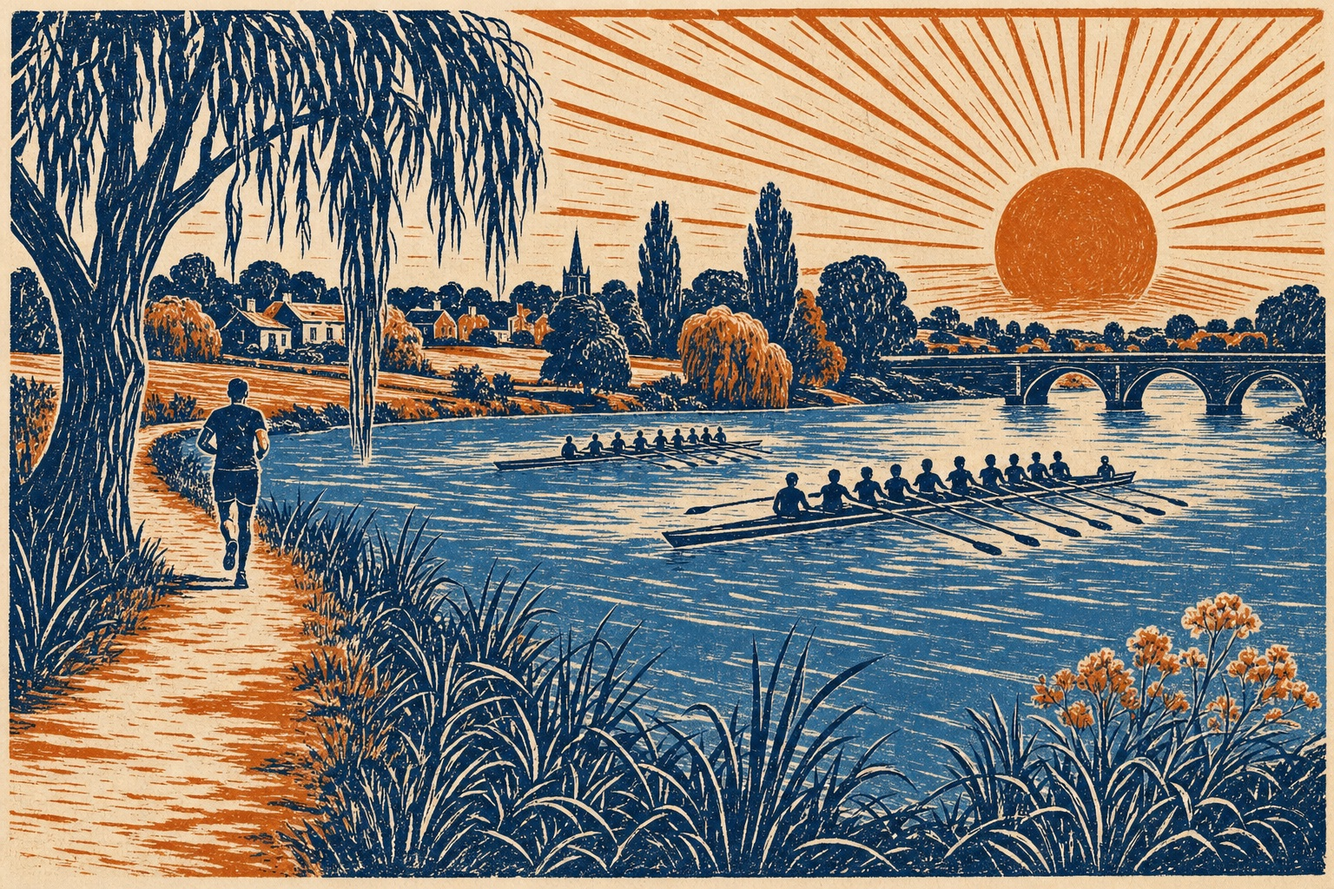
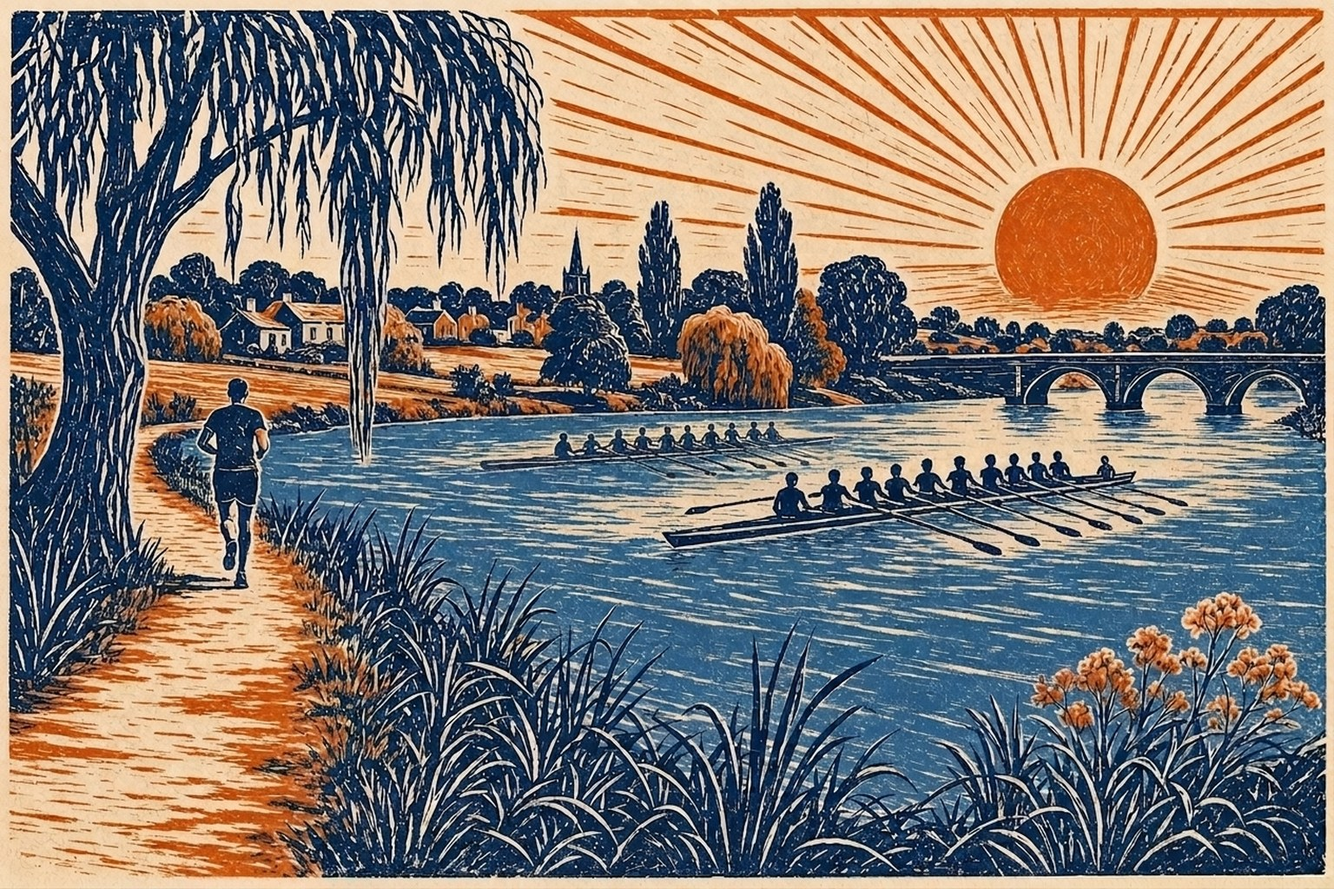
Hero print: proper rowing eights travelling along the river
The two boats had ~10 rowers and were angled into the bank. Regenerated
the linocut so each is a correct eight (8 rowers + cox) moving parallel
to the towpath; bumped the SW cache so clients pick up the new asset.

diff --git a/sw.js b/sw.js
@@ -1,6 +1,6 @@
 /* Network-first service worker: the app always prefers fresh data, but the
    shell keeps working offline (e.g. mid-trail with no signal). */
-const CACHE = "tpu-journal-1";
+const CACHE = "tpu-journal-2";
 const SHELL = [
   "/",
   "/index.html",
